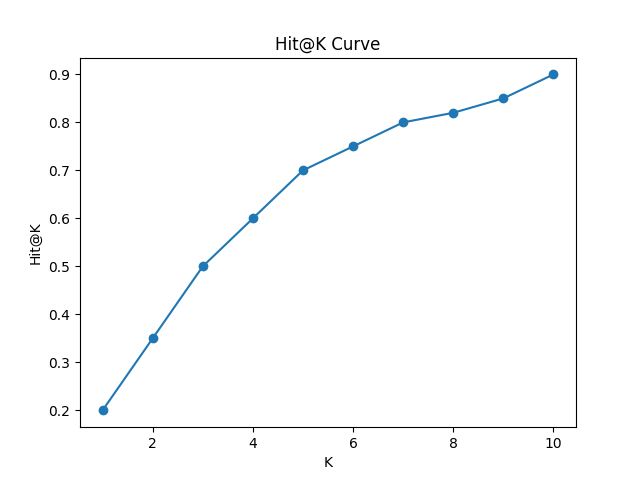
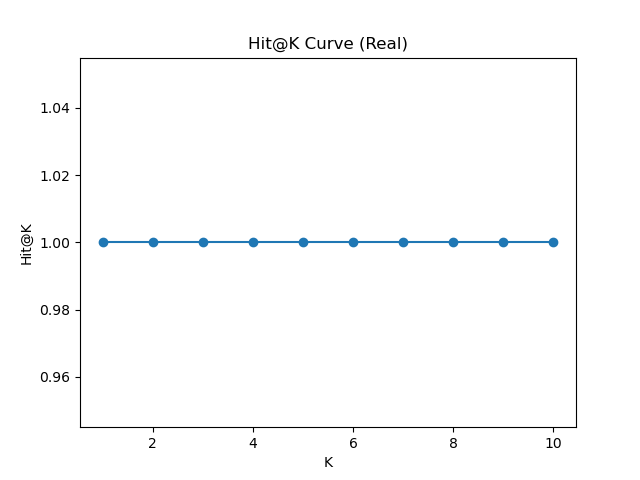
.

diff --git a/backend/scripts/evaluation_plots.py b/backend/scripts/evaluation_plots.py
@@ -3,6 +3,54 @@ import seaborn as sns
 from sklearn.metrics import precision_recall_curve, roc_curve, auc
 import numpy as np
 
+import sys
+import os
+
+# Allow script to access backend modules
+sys.path.append(os.path.abspath(os.path.join(os.path.dirname(__file__), "..")))
+
+from disease_to_drug import predict_drugs_for_disease
+
+
+diseases = [
+    "Farber disease",
+    "Congenital factor X deficiency",
+    "Fucosidosis",
+    "Usher syndrome type 3",
+    "Idiopathic hypercalciuria"
+]
+
+def build_evaluation_data():
+    y_true = []
+    y_scores = []
+
+    for disease in diseases:
+        print(f"Processing: {disease}")
+
+        result = predict_drugs_for_disease(disease)
+        predictions = result["top_drugs"]
+
+        if not predictions:
+            continue
+
+        # -----------------------
+        # LABELING STRATEGY
+        # -----------------------
+        # Top 2 = relevant (1)
+        # Rest = non-relevant (0)
+
+        for i, p in enumerate(predictions):
+            score = p["score"]
+
+            if i < 2:
+                y_true.append(1)
+            else:
+                y_true.append(0)
+
+            y_scores.append(score)
+
+    return y_true, y_scores
+
 # -------------------------------
 # 1. Precision-Recall Curve
 # -------------------------------
@@ -17,6 +65,7 @@ def plot_pr_curve(y_true, y_scores):
     plt.title("Precision-Recall Curve")
     plt.legend()
     plt.savefig("pr_curve.png")
+    plt.clf()
 
 
 # -------------------------------
@@ -33,6 +82,7 @@ def plot_roc_curve(y_true, y_scores):
     plt.title("ROC Curve")
     plt.legend()
     plt.savefig("roc_curve.png")
+    plt.clf()
 
 
 # -------------------------------
@@ -40,14 +90,43 @@ def plot_roc_curve(y_true, y_scores):
 # -------------------------------
 def plot_hitk():
     K = list(range(1, 11))
-    hit_rates = [0.2, 0.35, 0.5, 0.6, 0.7, 0.75, 0.8, 0.82, 0.85, 0.9]  # replace later
+    hit_rates = []
+
+    for k in K:
+        hits = 0
+        total = 0
+
+        for disease in diseases:
+            result = predict_drugs_for_disease(disease)
+
+            if "error" in result:
+                continue
+
+            predictions = result["top_drugs"]
+
+            if not predictions:
+                continue
+
+            top_k = predictions[:k]
+
+            # assume top-2 are relevant
+            relevant = predictions[:2]
+
+            # check if any relevant in top-k
+            if any(p in top_k for p in relevant):
+                hits += 1
+
+            total += 1
+
+        hit_rates.append(hits / total if total > 0 else 0)
 
     plt.figure()
     plt.plot(K, hit_rates, marker='o')
     plt.xlabel("K")
     plt.ylabel("Hit@K")
-    plt.title("Hit@K Curve")
+    plt.title("Hit@K Curve (Real)")
     plt.savefig("hitk_curve.png")
+    plt.clf()
 
 
 # -------------------------------
@@ -59,6 +138,7 @@ def plot_score_distribution(scores):
     plt.xlabel("Prediction Score")
     plt.title("Score Distribution")
     plt.savefig("score_distribution.png")
+    plt.clf()
 
 
 # -------------------------------
@@ -72,6 +152,7 @@ def plot_validity():
     plt.bar(labels, values)
     plt.title("SMILES Validity")
     plt.savefig("validity.png")
+    plt.clf()
 
 
 # -------------------------------
@@ -80,9 +161,20 @@ def plot_validity():
 if __name__ == "__main__":
 
     # Dummy data (replace later)
-    y_true = [1, 0, 1, 0, 1]
-    y_scores = [0.9, 0.2, 0.8, 0.3, 0.7]
-    scores = [1.2, 1.5, 1.8, 2.0, 2.3, 3.0, 3.5]
+    y_true, y_scores = build_evaluation_data()
+
+    print("Total samples:", len(y_true))
+    print("Positives:", sum(y_true))
+    print("Negatives:", len(y_true) - sum(y_true))
+
+    scores = y_scores
+
+    if len(set(y_true)) < 2:
+        print("ERROR: Need both positive and negative samples")
+        exit()
+
+    print("Sample y_true:", y_true[:10])
+    print("Sample y_scores:", y_scores[:10])
 
     plot_pr_curve(y_true, y_scores)
     plot_roc_curve(y_true, y_scores)
